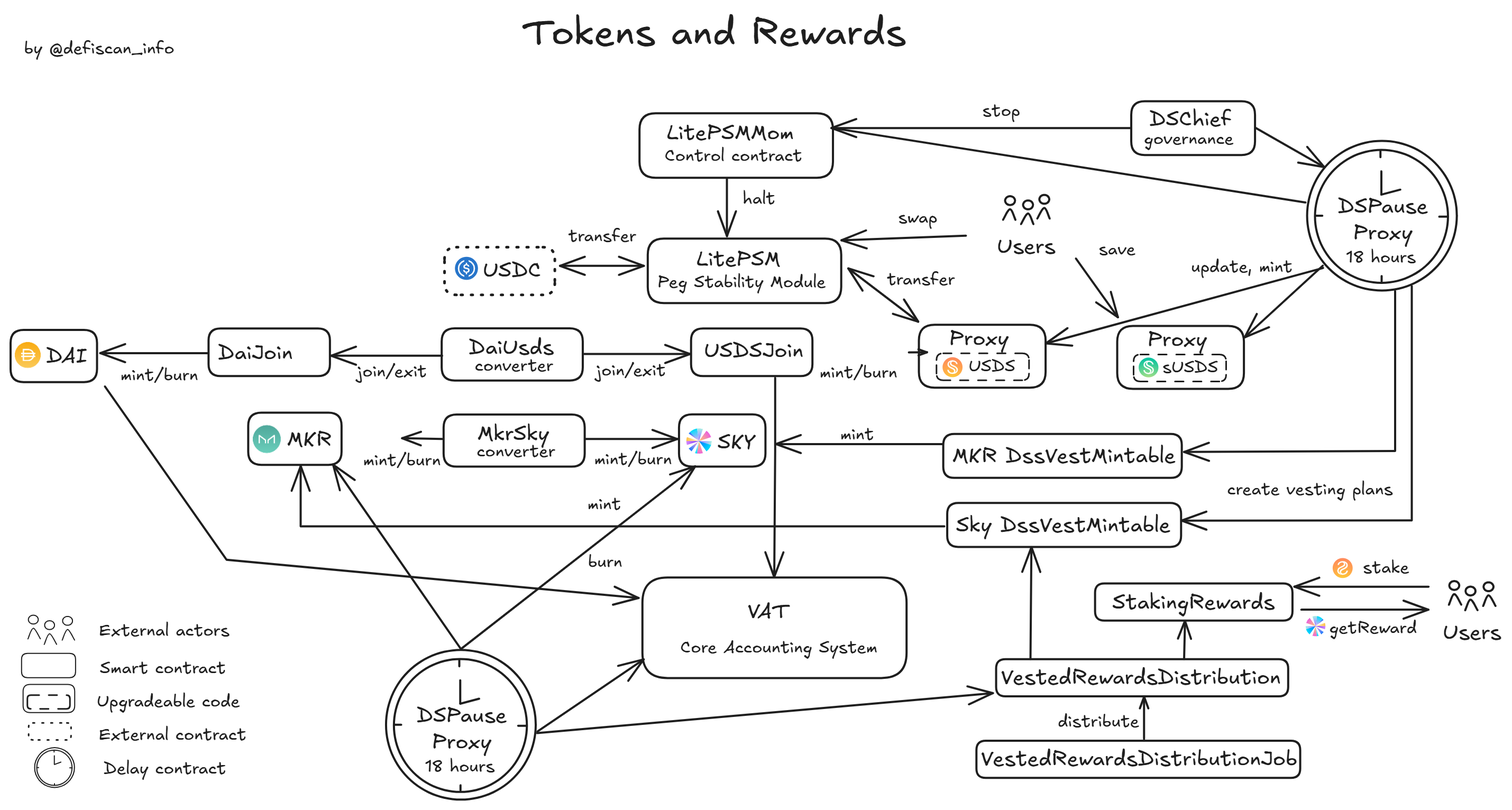
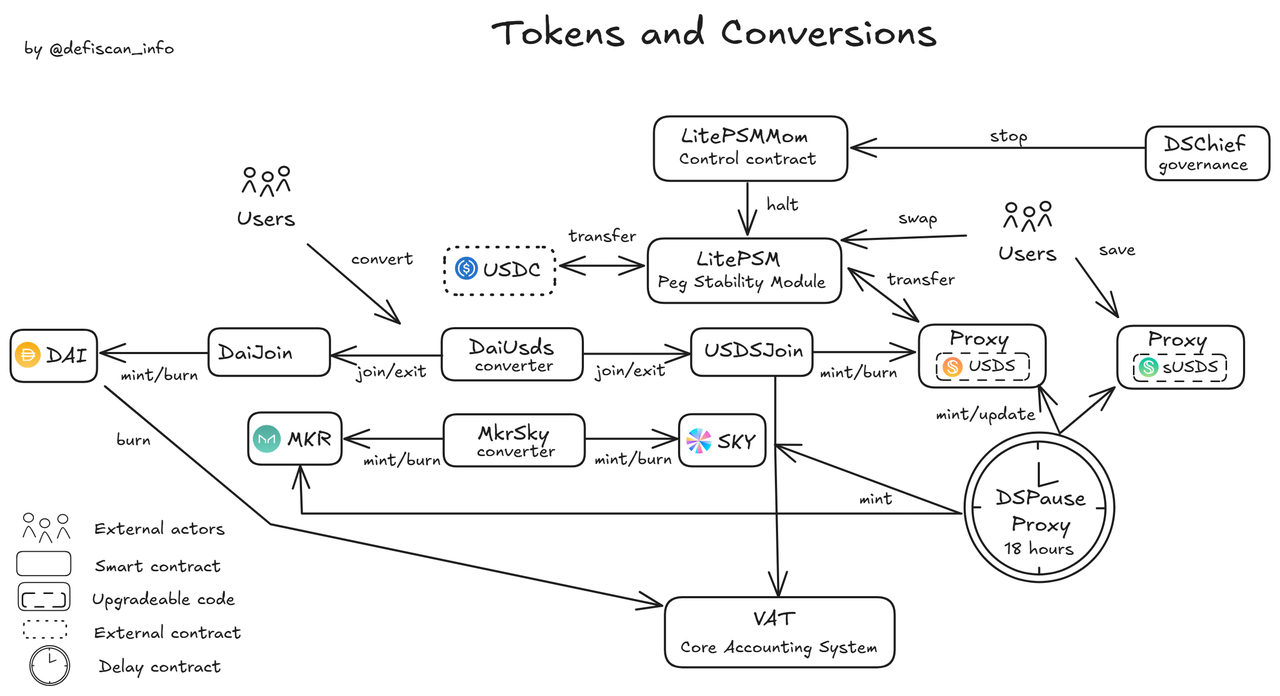
address Nils' comments

diff --git a/src/content/protocols/sky.md b/src/content/protocols/sky.md
@@ -16,66 +16,105 @@ update_date: "1970-01-01"
 
 # Summary
 
-The Sky protocol is a decentralised protocol developed around the `USDS` stablecoin. It is managed by the Sky ecosystem governance. The Sky Protocol features Sky tokens (`USDS`, `SKY`, `DAI`, `MKR`), the Sky Savings Rate, Sky Token Rewards, Activation Token Rewards, and SkyLink. The Protocol was built from the core module of the MakerDAO Protocol and replaces Maker. As Sky is built on top of Maker and both protocol's tokens are tied by fixed conversion rate, this review also includes the MakerDAO protocol and its contracts.
-Maker is a lending protocol centered around `DAI`. Users can borrow `DAI` using a list of accepted collaterals. Fixed rates allow users to go to and from legacy tokens at any time (`DAI` to `USDS`, `MKR` to `SKY`).
+Sky is a stablecoin protocol allowing users to mint its USDS stablecoin through _Collateralized Debt Positions_ with a variety of crypto collateral assets. Sky is built on the Maker protocol, by the MakerDAO, with the objective to replace the DAI stablecoin and allows for the 1:1 conversion between DAI and USDS. USDS can further be staked for the yield-bearing sUSDS token. Various levels of control over the Sky protocol are exercised through an onchain governance system.
 
 # Overview
 
 ## Chain
 
-The Sky protocol is currently mainly on Ethereum mainnet. As part of Sky's _End Game_ plan the protocol is gradually deploying on other chains and aims to launch its own chain in the future. This review focuses on the Ethereum mainnet deployment of Sky.
+This review focuses on the Ethereum deployment of Sky, currently the only chain the Sky protocol is deployed on. As part of Sky's _End Game_ plan the protocol is gradually deploying on other chains and aims to launch its own chain in the future.
 
 > Chain score: Low
 
 ## Upgradeability
 
-Core contracts such as `USDS` and `sUSDS` are upgradeable through governance actions. Governance has a complete control over the protocol and could arbitrarily mint tokens, liquidate positions, stop contracts, and steal collateral.
-Governance is controlled by `MKR`/`SKY` token holders who sealed their tokens to earn voting power which allows them to submit and vote on respective proposals, or delegate their votes to another user.
+`USDS` and `sUSDS` are upgradeable contracts through governance proposals. Updating those contracts could change the entire logic of those tokens and may incur loss of funds for users.
+
+Many parameters in the Sky Protocol can be changed through governance proposals and may also incur loss of funds, loss of unclaimed yield, as well as material changes in expected performances. Example actions are forced liquidations, creating unbacked debt, or pausing the contracts.
 
 > Upgradeability score: High
 
 ## Autonomy
 
-The Sky protocol relies on the provider Chronicle for price feeds of collateral assets. An Oracle Security Module (`OSM`) enforces a 1-hour delay on price updates and the governance can freeze the current price to prevent further updates in case of emergency. The Chronicol protocol uses non-upgradeable contracts and a system of decentralized validators (and challengers) to push price updates on-chain. The price feed provider could be changed through a governance proposal.
+The Sky protocol relies on the provider Chronicle for price feeds of collateral assets. The Chronicol protocol uses a system of decentralized validators (and challengers) to push price updates on-chain and is explained in more details in [dependencies](#dependencies).
+
+An Oracle Security Module (`OSM`) enforces a 1-hour delay on price updates and the governance can freeze the current price to prevent further updates in case of emergency. The price feed provider could be changed through a governance proposal.
 
 > Autonomy score: Medium
 
 ## Exit Window
 
-The minimum delay between approval and execution of a governance proposal is currently **18 hours**. Governance proposals have a recurring weekly and monthly schedules. Those proposals usually have a courtesy delay duration of 2-3 days before taking effect, but proposals remain possible at any time with the minimum delay. Proposals may (but do not have to) include an office-hours modifier that means it can only be executed between 14:00 and 21:00 UTC Monday-Friday. There are no minimum amount of tokens to open a proposal or for it to pass, as the protocol uses continuous approval. This is explained in more details in the [exit window analysis section](#exit-window-1).
+All permissions within Sky are held by the onchain Sky Governance. There are no external accounts or multisigs in control.
 
-Emergency measures allow the governance to pause certain contracts through a governance proposal without being subject to the mandatory delay. In addition to that an _Emergency Shutdown Module_ (ESM) exists and can irreversibly shutdown the entire protocol if **500'000** `MKR` tokens are sent to the Emergency Shutdown Contract. Funds sent to the contract are considered lost no matter the emergency status.
+Governance is controlled by `MKR`/`SKY` token holders who locked their tokens to earn voting power which allows them to submit and vote on respective proposals, or delegate their votes to another user. Any token holder can create a proposal and the protocol uses a system of continuous approval explained in more detail in the [technical section](#exit-window-1).
+
+The minimum delay between approval and execution of a governance proposal is currently **18 hours**. Governance proposals have a recurring weekly and monthly schedules. Those proposals usually have a courtesy delay duration of 2-3 days before taking effect, but proposals remain possible at any time with the minimum delay.
+
+Emergency measures allow the governance to pause certain contracts through a governance proposal without being subject to the mandatory delay. In addition to that, an _Emergency Shutdown Module_ (ESM) exists and can irreversibly shutdown the entire protocol if **500'000** `MKR` tokens are sent to the Emergency Shutdown Contract. Funds sent to the contract are considered lost no matter the emergency status.
 
 > Exit Window score: High
 
 ## Accessibility
 
-Sky has a main frontend at [sky.money](https://sky.money). The frontend is not self-hostable nor open source, but multiple other access points exist with _stars_ such as [Spark](https://spark.fi) which is self-hostable or third-party apps like DeFiSaver or SummerFi. These apps build an acceptable backup solution in case of failure of the official frontend.
+Sky has a main frontend at [sky.money](https://sky.money). The frontend is not self-hostable nor open source, but multiple other access points exist with Sky-specific apps such as [Spark](https://spark.fi) or third-party apps like [DeFiSaver](https://defisaver.com) or [SummerFiPro](https://pro.summer.fi). These apps build an acceptable backup solution in case of failure of the official frontend.
 
 > Accessibility score: Low
 
 ## Conclusion
 
-Overall the Sky protocol has unfortunately a high upgradeability and exit window scores. A security council could potentially
-allow the protocol to reach Stage 1, but the current repartition of voting power in the goverance, with the top-3 _aligned delegates_ having to themselves
-the right to pass proposals, does not qualify for a comparison to a Security council. We encourage the protocol to take measures towards a
-diversification of delegates and voting power. Those scores would grant the rank of Stage 0 to the Sky protocol.
+Overall the Sky protocolexposes critical permissions that are not protected with an appropriate Exit Window or Security Council. It thus earns High centralization risk scores for its Upgradeability and Exit Window dimensions and achieves Stage 0.
+
+The protocol could reach Stage 1 with an exit window of at least 7 days or a security council. It could further reach Stage 2 with an exit window of at least 30 days.
 
 > Overall score: Stage 0
 
 # Technical Analysis
 
-## Tokens and Rewards
+## Informational
 
-The contracts related to the tokens and the reward system of the Sky protocol are displayed in the diagram below. Following the _Sky End Game Plan_, the `DAI` and `MKR` have been replaced by `USDS` and `SKY` respectively. Conversion contracts allow for the swap from legacy to new tokens and back at a fixed rate.
+During our analysis we discovered a paradigm of _Authority_ contract used to handle fine-grained permissions over functions and contracts.
+In most of the cases the authority is `DSChief` and this allows governance proposals to have non-delayed access to certain functions. Nonetheless, this
+could be misused to grant any arbitrary address those same permissions. We note that because of the lack of _events_ in the `DSChief`'s role granting functions,
+we had to scan all governance proposals to ensure this has not happened in the past, and would encourage that those functions are blocked in future versions of the
+governance contract.
 
-A `StakingReward` contract allows users to stake `USDS` and receive `SKY` as a reward according to an issuance chosen by the governance. A `LitePSM` (Peg-stability-module) allows users to swap other stablecoins for `USDS` with no impact on the peg thanks to pre-attributed reserves.
+## External Permission Owners
 
-The governance, through its delay contract `DSPauseProxy` which enforces a delay of **18 hours** on actions, has admin privileges over all contracts and could, for example, arbitrarily mint tokens. `DSChief`, the governance contract, is the authority over the `LitePSMMom` which allows governance proposals to stop the `LitePSM` without any delay. We note that a missuse of the authority model used could grant access over the `LitePSM` to any arbitrary addresses (through a governance proposal).
+| Name                               | Account                                                                                                               | Type     |
+| ---------------------------------- | --------------------------------------------------------------------------------------------------------------------- | -------- |
+| DSPause Proxy (Delayed Governance) | [0xBE8E3e3618f7474F8cB1d074A26afFef007E98FB](https://etherscan.io/address/0xBE8E3e3618f7474F8cB1d074A26afFef007E98FB) | contract |
+| DSChief (Governance)               | [0x0a3f6849f78076aefaDf113F5BED87720274dDC0](https://etherscan.io/address/0x0a3f6849f78076aefaDf113F5BED87720274dDC0) | contract |
+| ESM (Emergency Shutdown Module)    | [0x09e05fF6142F2f9de8B6B65855A1d56B6cfE4c58](https://etherscan.io/address/0x09e05fF6142F2f9de8B6B65855A1d56B6cfE4c58) | contract |
 
-![Overview of the sky tokens and rewards module](./diagrams/sky-tokens.png)
+## Sky Stablecoin Module (CDP)
 
-## Governance
+The contracts related to the Collateralized Debt Module are highlighted below. The `Vat` is the core accounting system of the protocol and acts as a balance sheet for debt positions against all collaterals. Each collateral needs an adapter contract called `Join` so that it can be linked to the `Vat`. A `Dog` contract monitors the positions and can _bark_ when a position becomes liquidable. It _kicks_ the collateral's `Clipper` (or `LockstakeClipper` if the collateral is sealed `MKR`) and starts the auction process. The `Vow` is the contract keeping track of all surplus and debt and is the beneficiary of all the `DAI` raised in auction. The `Flopper` or `Flapper` are responsible for debt or surplus auctions respectively. The `Vow` is the beneficiary of the `DAI` raised in auctions. It is important to note that the governance has permission on those contracts and could trigger unjustified liquidations by bypassing the `Dog` contract.
+
+The `Spotter` feeds the price used for liquidation and auctions. It reads the price out of the `OSM` (Oracle Security Module) which delays price updates by one hour and can be frozen in case of emergency. Incorrect oracle prices could potentially liquidate the entire Maker ecosystem, the oracle provider Chronicle is therefore extremely trusted.
+
+The `Pot` and `Jug` contracts represent the rates module. Respectively the `Pot`contract allows user to save at a specific _DAI Savings rate_ and the `Jug` contract handles stability fees. We note that the savings rate is not limited and may become either highly negative or positive under future governance proposals.
+
+As for the governance and tokens, the Mom contracts (`FlapperMom`, `FLopperMom`, `OSMMom`) have the ability to stop their child. The permissions to do so are granted by `DSChief`, the governance contract, so that governance proposals can stop those contracts without delay.
+
+![Overview of the stablecoin module](./diagrams/sky-stablecoin.png)
+
+## Sky ↔ Maker Conversion Module
+
+The contracts related to the conversion from legacy Maker tokens to Sky are displayed in the diagram below. Following the _Sky End Game Plan_, the `DAI` and `MKR` have been replaced by `USDS` and `SKY` respectively. Conversion contracts allow for the swap from legacy to new tokens and back at a fixed rate. In addition to that, a `LitePSM` (Peg-stability-module) allows users to swap `USDC` for `USDS` with no impact on the peg thanks to pre-attributed reserves.
+
+A `LitePSM` (Peg-stability-module) allows users to swap other stablecoins for `USDS` with no impact on the peg thanks to pre-attributed reserves.
+
+The governance has admin privileges over all contracts and could, for example, arbitrarily mint tokens. `DSChief`, the (non-delayed) governance contract, is the authority over the `LitePSMMom` which allows governance proposals to stop the `LitePSM` without any delay.
+
+![Overview of the sky tokens and conversion module](./diagrams/sky-tokens.png)
+
+## Sky Rewards
+
+A `StakingReward` contract allows users to stake `USDS` and receive `SKY` as a reward according to an issuance chosen by the governance. **TODO**: explain more permissions, etc. how rewards work and more could be created.
+
+![Overview of the sky rewards module](./diagrams/sky-rewards.png)
+
+## Sky Governance
 
 The governance process is highlighted below. Users need to seal `MKR` or `SKY` tokens into the `LockStakeEngine` in order to receive voting rights. Users may receive rewards for their sealed tokens. Withdrawing the tokens is currently subject to a fee starting at 5% and increasing up to 15% overtime.
 
@@ -87,17 +126,28 @@ Proposals can be scheduled for execution with the `DSPauseProxy` which enforces 
 
 ![Overview of the sky governance](./diagrams/sky-governance.png)
 
-## Collaterallized Debt Positions Module
+## Dependencies
 
-The contracts related to the CDP module are highlighted below. The `Vat` is the core accounting system of the protocol and acts as a balance sheet for debt positions against all collaterals. Each collateral needs an adapter contract called `Join` so that it can be linked to the `Vat`. A `Dog` contract monitors the positions and can _bark_ when a position becomes liquidable. It _kicks_ the collateral's `Clipper` (or `LockstakeClipper` if the collateral is sealed `MKR`) and starts the auction process. The `Vow` is the contract keeping track of all surplus and debt and is the beneficiary of all the `DAI` raised in auction. The `Flopper` or `Flapper` are responsible for debt or surplus auctions respectively. The `Vow` is the beneficiary of the `DAI` raised in auctions. It is important to note that the governance has permission on those contracts and could trigger unjustified liquidations by bypassing the `Dog` contract.
+The Sky protocol relies on the provider Chronicle for price feeds of collateral assets.
 
-The `Spotter` feeds the price used for liquidation and auctions. It reads the price out of the `OSM` (Oracle Security Module) which delays price updates by one hour and can be frozen in case of emergency. Incorrect oracle prices could potentially liquidate the entire Maker ecosystem, the oracle provider Chronicle is therefore extremely trusted.
+Chronicle is a decentralized oracle protocol that computes a median price from multiple sources. The protocol contains validators who push new prices and challengers who can freeze and challenge new prices. The contracts are non-upgradeable and each oracle has its own validator set. This set can be changed by a TimeLockController with a delay of 7 days. The validator set and quorum of each oracle is announced on the chronicle labs [public dashboard](https://chroniclelabs.org/dashboard/oracles).
 
-The `Pot` and `Jug` contracts represent the rates module. Respectively the `Pot`contract allows user to save at a specific _DAI Savings rate_ and the `Jug` contract handles stability fees. We note that the savings rate is not limited and may become either highly negative or positive under future governance proposals.
+An Oracle Security Module enforces a 1 hour window on price updates and the governance can freeze the current price value to prevent further updates. In addition to freezing prices, the MakerDAO governance can change the oracle provider with a governance proposal.
 
-As for the governance and tokens, the Mom contracts (`FlapperMom`, `FLopperMom`, `OSMMom`) have the ability to stop their child. The permissions to do so are granted by `DSChief`, the governance contract, so that governance proposals can stop those contracts without delay.
+## Exit Window
 
-![Overview of the CDP module](./diagrams/sky-cdp.png)
+The minimum delay between approval and execution of a governance proposal is **18 hours**, recently reduced from 30 hours in an [emergency proposal](https://vote.makerdao.com/executive/template-executive-vote-out-of-schedule-executive-vote-risk-parameter-changes-february-18-2025). The governance has a _continuous proposal_ model, which means voters need to migrate their vote from the current proposal to a new proposal. The proposal with the most votes at any times is accepted and can be executed once its delay has passed.
+
+Emergency measures permissions allow the governance to pause certain contracts through a governance proposal without being subject to the mendatory delay. This is the case for all contract that have a `Mom` who can pause or stop their child. In addition to that, an _Emergency Shutdown Module_ exists and can shutdown the entire protocol if 500'000 `MKR` tokens are irreversibly sent to the Emergency Shutdown Contract. Once the process is started a [specific timeline](https://docs.makerdao.com/smart-contract-modules/shutdown/the-emergency-shutdown-process-for-multi-collateral-dai-mcd) allows token holders and vault users to receive the net value of their assets. If the process is activated it is irreversible, a fork would need to be created in order to revive the protocol. It is assumed that there are 2 scenarios:
+
+1.  A malicious majority is hijacking the governance. The only option once the system is shut down is to set up an alternative fork in which the malicious users' funds are slashed and the users who shut down the system see their funds restored.
+2.  A critical bug was discovered and prevented with a system shutdown. The governance can refund users who shut down the system by minting new tokens.
+
+# Security Council
+
+There is no security council to oversee the Sky Protocol. However, there is a series of emergency actions described in [exit-window](#exit-window-1) that can be taken by the governance without delay.
+
+# Appendix
 
 ## Contracts
 
@@ -141,11 +191,13 @@ The list of contract and deployment addresses is available in both the [official
 | Vow                           | [0xA950524441892A31ebddF91d3cEEFa04Bf454466](https://etherscan.io/address/0xA950524441892A31ebddF91d3cEEFa04Bf454466) |
 | LockstakeClipper              | [0xA85621D35cAf9Cf5C146D2376Ce553D7B78A6239](https://etherscan.io/address/0xA85621D35cAf9Cf5C146D2376Ce553D7B78A6239) |
 
-## Permission owners
+## All Permission owners
 
 | Name                      | Account                                                                                                               | Type     |
 | ------------------------- | --------------------------------------------------------------------------------------------------------------------- | -------- |
 | DSPause Proxy             | [0xBE8E3e3618f7474F8cB1d074A26afFef007E98FB](https://etherscan.io/address/0xBE8E3e3618f7474F8cB1d074A26afFef007E98FB) | contract |
+| DSChief                   | [0x0a3f6849f78076aefaDf113F5BED87720274dDC0](https://etherscan.io/address/0x0a3f6849f78076aefaDf113F5BED87720274dDC0) | contract |
+| ESM                       | [0x09e05fF6142F2f9de8B6B65855A1d56B6cfE4c58](https://etherscan.io/address/0x09e05fF6142F2f9de8B6B65855A1d56B6cfE4c58) | contract |
 | USDSJoin                  | [0x3c0f895007ca717aa01c8693e59df1e8c3777feb](https://etherscan.io/address/0x3c0f895007ca717aa01c8693e59df1e8c3777feb) | contract |
 | DAIJoin                   | [0x9759a6ac90977b93b58547b4a71c78317f391a28](https://etherscan.io/address/0x9759a6ac90977b93b58547b4a71c78317f391a28) | contract |
 | DaiJoinFab                | [0x64a84e558192dd025F3A96775FEE8FB530f27177](https://etherscan.io/address/0x64a84e558192dd025F3A96775FEE8FB530f27177) | contract |
@@ -159,51 +211,14 @@ The list of contract and deployment addresses is available in both the [official
 | SplitterMom               | [0xF51a075d468dE7dE3599C1Dc47F5C42d02C9230e](https://etherscan.io/address/0xF51a075d468dE7dE3599C1Dc47F5C42d02C9230e) | contract |
 | Vow                       | [0xA950524441892A31ebddF91d3cEEFa04Bf454466](https://etherscan.io/address/0xA950524441892A31ebddF91d3cEEFa04Bf454466) | contract |
 | MkrAuthority              | [0x6eEB68B2C7A918f36B78E2DB80dcF279236DDFb8](https://etherscan.io/address/0x6eEB68B2C7A918f36B78E2DB80dcF279236DDFb8) | contract |
-| DSChief                   | [0x0a3f6849f78076aefaDf113F5BED87720274dDC0](https://etherscan.io/address/0x0a3f6849f78076aefaDf113F5BED87720274dDC0) | contract |
 | Flopper                   | [0xa41b6ef151e06da0e34b009b86e828308986736d](https://etherscan.io/address/0xa41b6ef151e06da0e34b009b86e828308986736d) | contract |
 | Vat                       | [0x35D1b3F3D7966A1DFe207aa4514C12a259A0492B](https://etherscan.io/address/0x35D1b3F3D7966A1DFe207aa4514C12a259A0492B) | contract |
-| ESM                       | [0x09e05fF6142F2f9de8B6B65855A1d56B6cfE4c58](https://etherscan.io/address/0x09e05fF6142F2f9de8B6B65855A1d56B6cfE4c58) | contract |
 | END                       | [0x0e2e8F1D1326A4B9633D96222Ce399c708B19c28](https://etherscan.io/address/0x0e2e8F1D1326A4B9633D96222Ce399c708B19c28) | contract |
 | Jug                       | [0x19c0976f590D67707E62397C87829d896Dc0f1F1](https://etherscan.io/address/0x19c0976f590D67707E62397C87829d896Dc0f1F1) | contract |
 | Pot                       | [0x197e90f9fad81970ba7976f33cbd77088e5d7cf7](https://etherscan.io/address/0x197e90f9fad81970ba7976f33cbd77088e5d7cf7) | contract |
 | DssAutoLine               | [0xc7bdd1f2b16447dcf3de045c4a039a60ec2f0ba3](https://etherscan.io/address/0xc7bdd1f2b16447dcf3de045c4a039a60ec2f0ba3) | contract |
 
-<!-- Contracts with mint rights on MKR:
-End : 0x0e2e8F1D1326A4B9633D96222Ce399c708B19c28
-ClipperMom: 0x79FBDF16b366DFb14F66cE4Ac2815Ca7296405A0
-DSPause: 0xbE286431454714F511008713973d3B053A2d38f3
-
-VAT: 0x35D1b3F3D7966A1DFe207aa4514C12a259A0492B 0x65fae35e
-Spotter 0x65c79fcb50ca1594b025960e539ed7a9a6d434a3
-
-Rates modules:
-Pot 0x197e90f9fad81970ba7976f33cbd77088e5d7cf7
-Jug 0x19c0976f590D67707E62397C87829d896Dc0f1F1
-
-DssAutoLine 0xc7bdd1f2b16447dcf3de045c4a039a60ec2f0ba3
-LineMom: 0x9c257e5Aaf73d964aEBc2140CA38078988fB0C10
-
-**ESM**: 0x09e05fF6142F2f9de8B6B65855A1d56B6cfE4c58
-**END**: 0x0e2e8F1D1326A4B9633D96222Ce399c708B19c28
-
-OSM: oracle security module
-OsmMom: 0x76416A4d5190d071bfed309861527431304aA14f
-Liquidation Oracle: 0x88f88bb9e66241b73b84f3a6e197fbba487b1e30
-
-to add or investigate: SkyLink
-
-dog owners:
-LockstakeClipper, Clipper, End
-
-Abacus: -->
-
 ## Permissions
-
-During our analysis we discovered a paradigm of _Authority_ contract used to handle fine-grained permissions over functions and contracts.
-In most of the cases the authority is `DSChief` and this allows governance proposals to have non-delayed access to certain functions. Nonetheless, this
-could be misused to grant any arbitrary address those same permissions. We note that because of the lack of _events_ in the `DSChief`'s role granting functions,
-we had to scan all governance proposals to ensure this has not happened in the past, and would encourage that those functions are blocked in future versions of the
-governance contract.
 
 &nbsp;
 
@@ -366,22 +381,3 @@ governance contract.
 | Clipper                               | File                   | Changes contract parameters or stops the contract. This function can be used to update the address of auxialary contracts or auction parameters that regard the timing, speed, fees, and incentives of auctions. The contract can also be stopped gradually to first stop new auctions, then auction remakes, and then bids.                                                                                                                           | DSPauseProxy (DAO), Dog, ClipperMom, ESM, End                                               |
 | Clipper                               | Kick                   | Starts a new auction. This function is meant to be called by `Dog`. There are no particular input validations. If this contract is directly called by the governance (bypassing `Dog`), it could liquidate a healthy debt position.                                                                                                                                                                                                                    | DSPauseProxy (DAO), Dog, ClipperMom, ESM, End                                               |
 | Clipper                               | Yank                   | Cancels an auction. All auctions would be cancelled in case of an Emergency Shutdow (through `End`).                                                                                                                                                                                                                                                                                                                                                   | DSPauseProxy (DAO), Dog, ClipperMom, ESM, End                                               |
-
-## Dependencies
-
-The Sky protocol relies on the provider Chronicle for price feeds of collateral assets. An Oracle Security Module enforces a 1 hour window on price updates and the provider (Chronicle) or the governance can freeze the current price value to prevent further updates.
-
-Chronicle is a decentralized oracle protocol that computes a median price from multiple sources. The protocol contains validators who push new prices and challengers who can freeze and challenge new prices. The contracts are non-upgradeable. In addition to freezing prices, the MakerDAO governance can change the oracle provider with a governance proposal.
-
-## Exit Window
-
-The minimum delay between approval and execution of a governance proposal is **18 hours**, recently reduced from 30 hours in an [emergency proposal](https://vote.makerdao.com/executive/template-executive-vote-out-of-schedule-executive-vote-risk-parameter-changes-february-18-2025). The governance has a _continuous proposal_ model, which means voters need to migrate their vote from the current proposal to a new proposal. The proposal with the most votes at any times is accepted and can be executed once its delay has passed.
-
-Emergency measures permissions allow the governance to pause certain contracts through a governance proposal without being subject to the mendatory delay. This is the case for all contract that have a `Mom` who can pause or stop their child. In addition to that, an _Emergency Shutdown Module_ exists and can shutdown the entire protocol if 500'000 `MKR` tokens are irreversibly sent to the Emergency Shutdown Contract. Once the process is started a [specific timeline](https://docs.makerdao.com/smart-contract-modules/shutdown/the-emergency-shutdown-process-for-multi-collateral-dai-mcd) allows token holders and vault users to receive the net value of their assets. If the process is activated it is irreversible, a fork would need to be created in order to revive the protocol. It is assumed that there are 2 scenarios:
-
-1.  A malicious majority is hijacking the governance. The only option once the system is shut down is to set up an alternative fork in which the malicious users' funds are slashed and the users who shut down the system see their funds restored.
-2.  A critical bug was discovered and prevented with a system shutdown. The governance can refund users who shut down the system by minting new tokens.
-
-# Security Council
-
-There is no security council to oversee the Sky Protocol. Nonetheless, there is a series of emergency governance actions described in [exit-window](#exit-window-1) that can be taken. Unfortunately, the model of continuous approval and vote delegation used in the governance does not qualify for a comparison with a security council, as the top 3 _Aligned Delegates_ could pass both new proposals and emergency actions (exluding the shutdown module) on their own.
